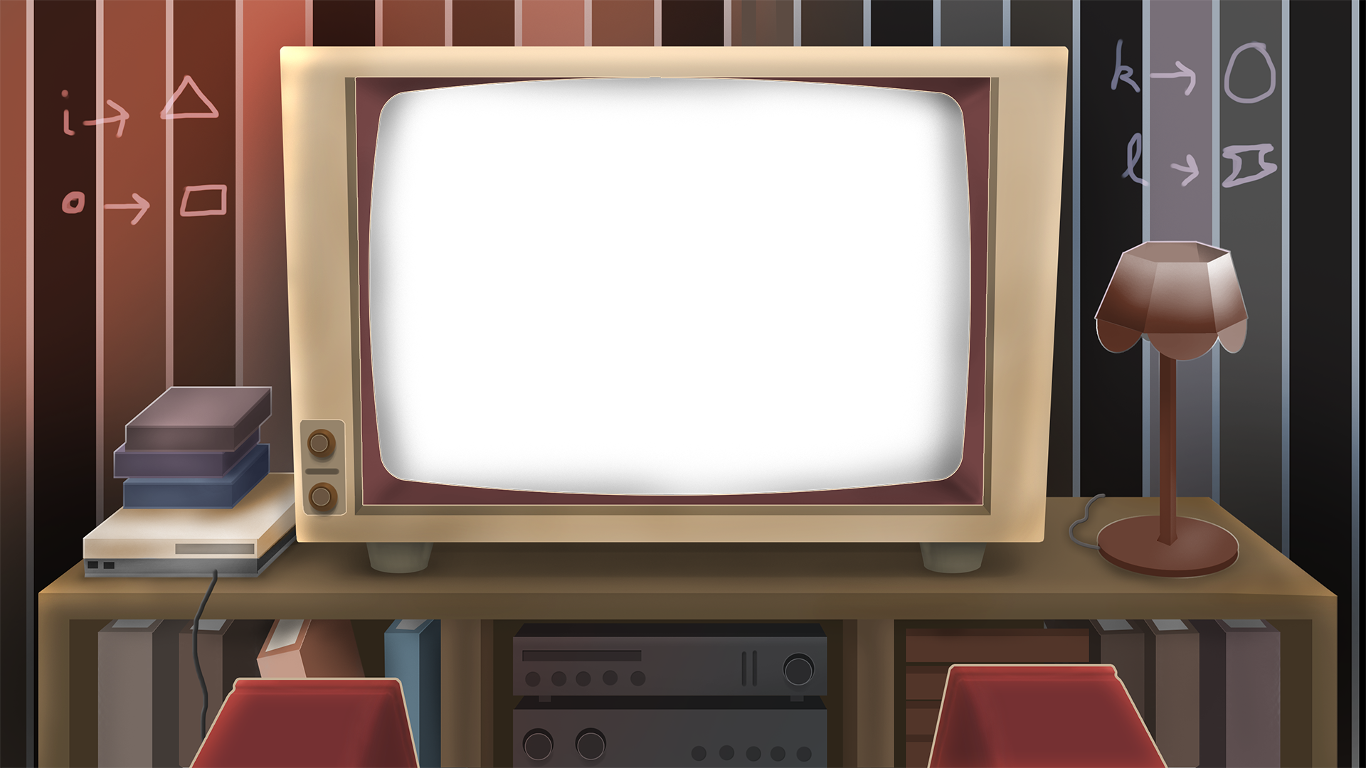
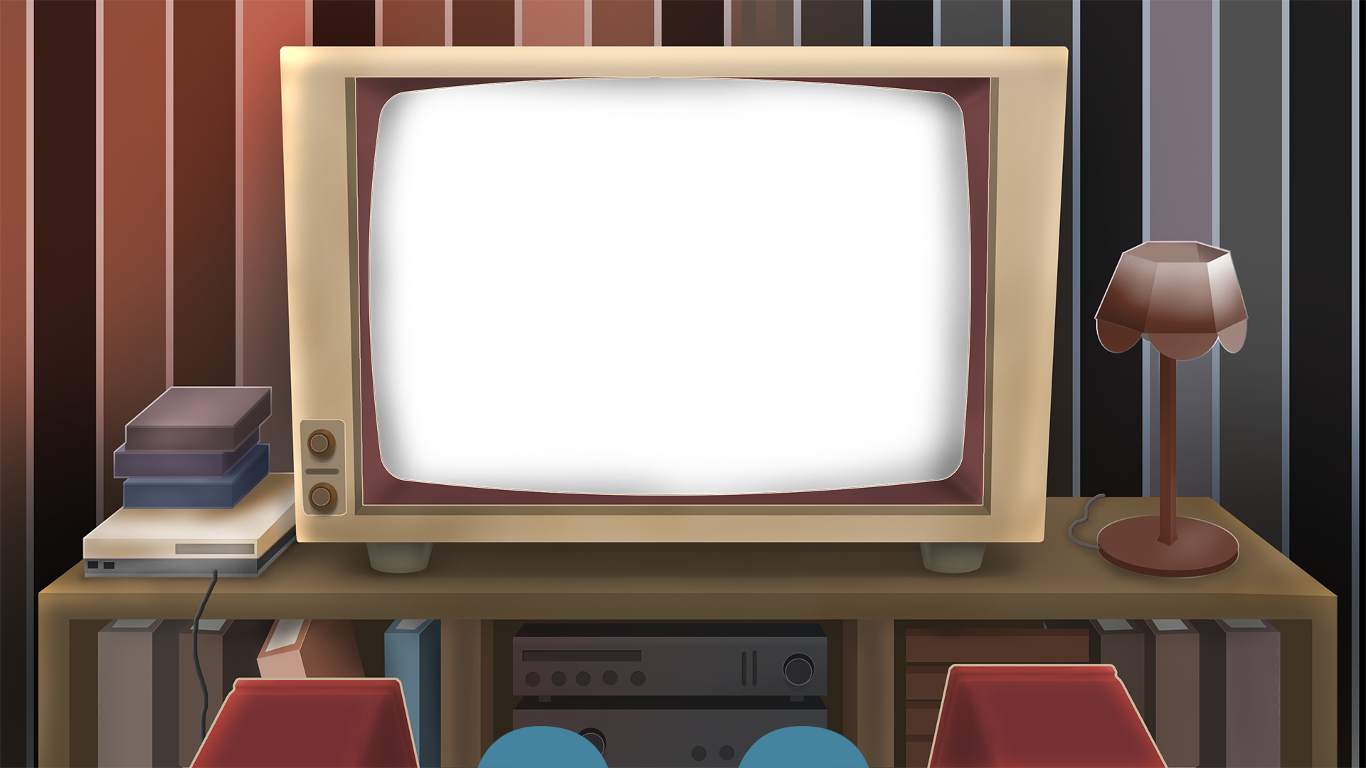
added anim player finshed but in debugmode rn

diff --git a/src/Game/PlayerActor.cpp b/src/Game/PlayerActor.cpp
@@ -6,18 +6,71 @@
 #include "PlayerActor.h"
 #include "../GameStates/IngameState.h"
 #include "../Tools/TimeUtils.h"
-#include "animationObjectTakesRefSprite.h"
+#include <experimental/filesystem>
+
+std::vector<std::string> getPathListOfDirectory4(std::string directory)
+{
+    std::vector<std::string> list;
+    auto p = std::experimental::filesystem::path(directory.c_str());
+    for(auto dirEntry: std::experimental::filesystem::directory_iterator(p))
+    {
+        if(std::experimental::filesystem::is_directory(dirEntry.path()) == false)
+        {
+            list.push_back(dirEntry.path().string());
+        }
+    }
+    std::sort(list.begin(), list.end());
+    return list;
+}
 
 PlayerActor::PlayerActor(PhysicsWorld& w, sf::Texture& tex, sf::Vector2f pos, std::string name) : GameActor(w, tex, pos, name, false) {
-    std::string directory = "Resources/tv/dino/";
     IngameState* state = Application::get().getIngameGameState();
-    m_anim = std::make_shared<animationObjectTakesRefSprite>(state, directory, sf::seconds(0.2), m_sprite);
-    m_anim->setPosition(pos);
+    for(auto file: getPathListOfDirectory4("Resources/tv/dino/")) {
+        sf::Texture tex;
+        tex.loadFromFile(file);
+        m_textures.push_back(tex);
+    }
+    m_frameLenght = sf::seconds(0.2);
+    m_currentFrameIndex = 0;
+    selectTexture(0);
+
+}
+
+void PlayerActor::selectTexture(size_t index) {
+    m_currentFrameIndex = index;
+    m_sprite.setTexture(m_textures[index]);
+}
+
+bool PlayerActor::shouldStepAnim() {
+    auto curr = clock.getElapsedTime();
+    if(curr.asSeconds() > m_frameLenght.asSeconds()) {
+        clock.restart();
+        return true;
+    }
+    return false;
+}
+
+void PlayerActor::playOnce() {
+    playing = true;
+}
+
+bool PlayerActor::isPlaying() {
+    return playing;
 }
 
 void PlayerActor::update(double delta) {
 
-    m_anim->update(delta);
+    if(playing) {
+        if (shouldStepAnim()) {
+            if (m_currentFrameIndex + 1 < m_textures.size()) {
+                m_currentFrameIndex++;
+                selectTexture(m_currentFrameIndex);
+            } else {
+                m_currentFrameIndex = -1;
+                playing = false;
+            }
+        }
+    }
 
     if (sf::Keyboard::isKeyPressed(sf::Keyboard::Space) &&
         getBody()->GetLinearVelocity().y == 0 &&
@@ -27,8 +80,8 @@ void PlayerActor::update(double delta) {
         getBody()->ApplyLinearImpulse(b2Vec2(0, 200), getBody()->GetWorldCenter(), true);
     }
 
-    if(!m_anim->isPlaying()) {
-        m_anim->playOnce();
+    if(!isPlaying()) {
+        playOnce();
     }
 
     GameActor::update(delta);

diff --git a/src/GameStates/TvGame.cpp b/src/GameStates/TvGame.cpp
@@ -9,7 +9,7 @@
 
 TvGame::TvGame(PhysicsWorld *parent) : m_parent(parent) {
 
-    m_label.push_back(std::make_unique<Label>(sf::Vector2f(374, 86), "Lifes: ", [this](Label* l){
+    m_label.push_back(std::make_unique<Label>(sf::Vector2f(390, 90), "Lifes: ", [this](Label* l){
         if(isGameOver()) {
             l->setPosition(sf::Vector2f(585, 239));
             l->setText("Game Over!");
@@ -19,7 +19,7 @@ TvGame::TvGame(PhysicsWorld *parent) : m_parent(parent) {
         }
     }));
 
-    m_label.push_back(std::make_unique<Label>(sf::Vector2f(374, 106), "Score: ", [this](Label* l){
+    m_label.push_back(std::make_unique<Label>(sf::Vector2f(390, 111), "Score: ", [this](Label* l){
         if(isGameOver()) {
             l->setPosition(sf::Vector2f(585, 269));
             l->setText("Final Score: " + std::to_string(getScore()));
@@ -32,6 +32,7 @@ TvGame::TvGame(PhysicsWorld *parent) : m_parent(parent) {
     m_obstacle = std::make_unique<tvGameObject>(Application::get().getResourceManager().getTexture("tv/cacti.png"), sf::Vector2f(1100, 305), nullptr);
 
     parent->addActor<GameActor>(std::make_unique<GameActor>(*parent, Application::get().getResourceManager().getTexture("tv/ground.png"), sf::Vector2f(363, 420), std::string("ground"), true));
+    parent->getActor("ground")->getSprite().setColor(sf::Color(0,0,0,0));
     parent->addActor<PlayerActor>(std::make_unique<PlayerActor>(*parent, Application::get().getResourceManager().getTexture("/tv/dino/1.png"), sf::Vector2f(440, 317), std::string("dino")));
     parent->getActor("dino")->getBody()->SetGravityScale(6);
 }
@@ -42,8 +43,9 @@ int TvGame::getScore() {
 
 void TvGame::update(double delta) {
 
-    if(Application::get().getGameState() != "g:p")
-        return;
+    //DEBUG
+    //if(Application::get().getGameState() != "g:p")
+    //    return;
 
     for(auto& l: m_label) {
        l->update(delta);
@@ -53,9 +55,6 @@ void TvGame::update(double delta) {
     playerActor->update(delta);
 
     if(!m_gameOver) {
-
-
-
 
         if(TimeUtils::Physics::shouldUpdatePhysics()) {
             m_obstacle->getSprite().move(sf::Vector2f(m_speed * delta, 0));

diff --git a/src/Game/PlayerActor.h b/src/Game/PlayerActor.h
@@ -8,6 +8,16 @@ class PlayerActor : public GameActor {
 public:
     PlayerActor(PhysicsWorld& w, sf::Texture& tex, sf::Vector2f pos, std::string name);
     void update(double delta) override;
+    void playOnce();
+    bool isPlaying();
 protected:
-    std::shared_ptr<animationObjectTakesRefSprite> m_anim;
+    void selectTexture(size_t index);
+
+    size_t m_currentFrameIndex;
+    bool playing = false;
+    bool shouldStepAnim();
+    sf::Clock clock;
+    std::vector<sf::Texture> m_textures;
+    sf::Time m_frameLenght;
+
 };

diff --git a/src/GameStates/IngameState.cpp b/src/GameStates/IngameState.cpp
@@ -69,9 +69,10 @@ void IngameState::update(double deltaTime) {
         Application::get().installState(std::make_unique<MenuGameState>());
     }
 
-    if(Application::get().getGameState() != "g:p") {
-        return;
-    }
+    //DEBUG
+    //if(Application::get().getGameState() != "g:p") {
+    //    return;
+    //}
 
     if (sf::Keyboard::isKeyPressed(sf::Keyboard::Key::I)) {
         Application::get().sendMessage("m:i");
